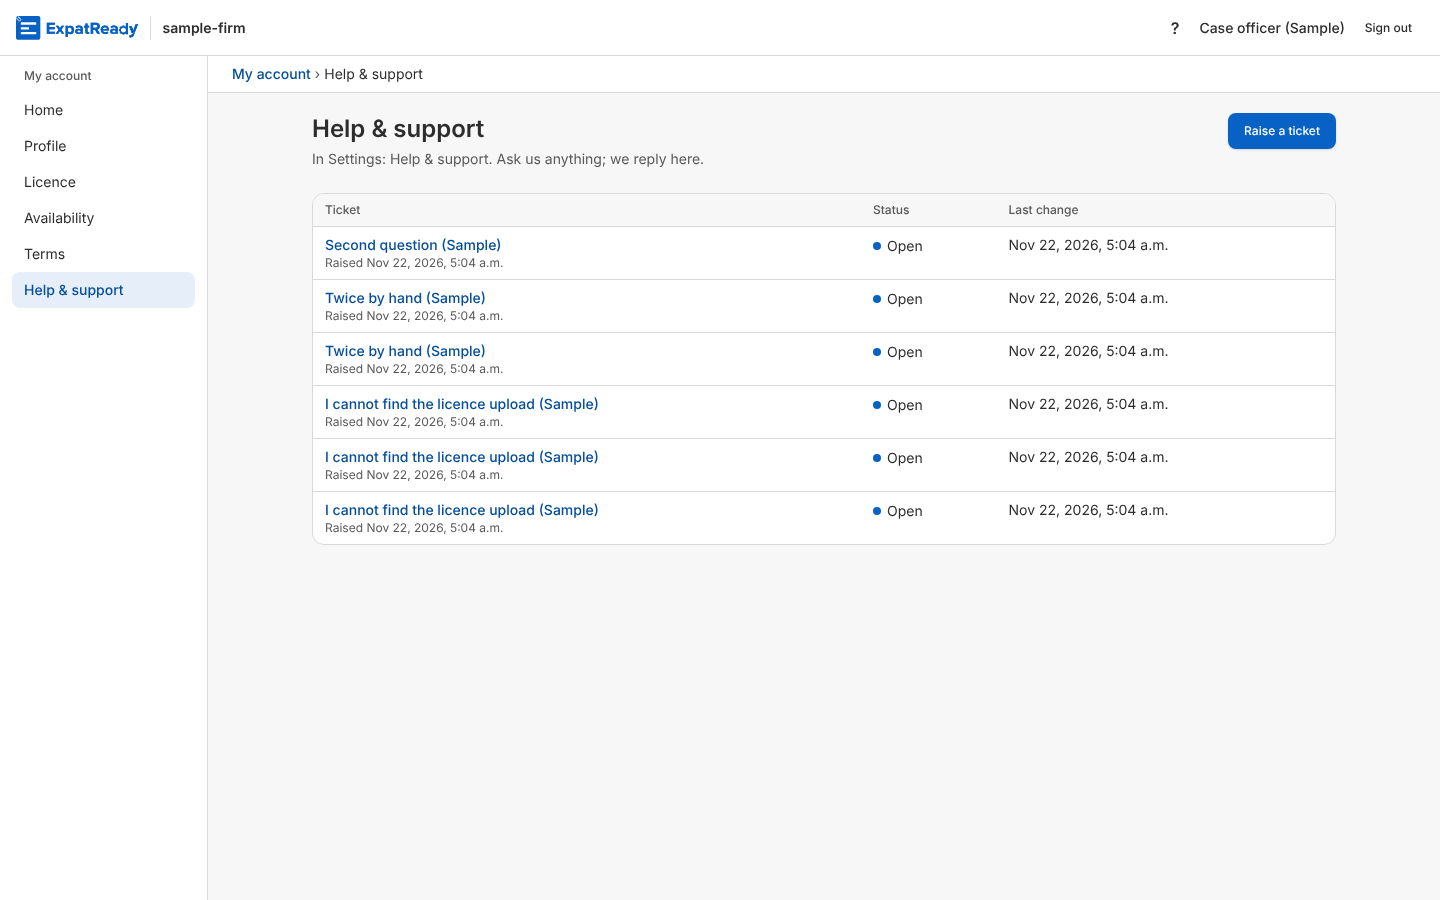
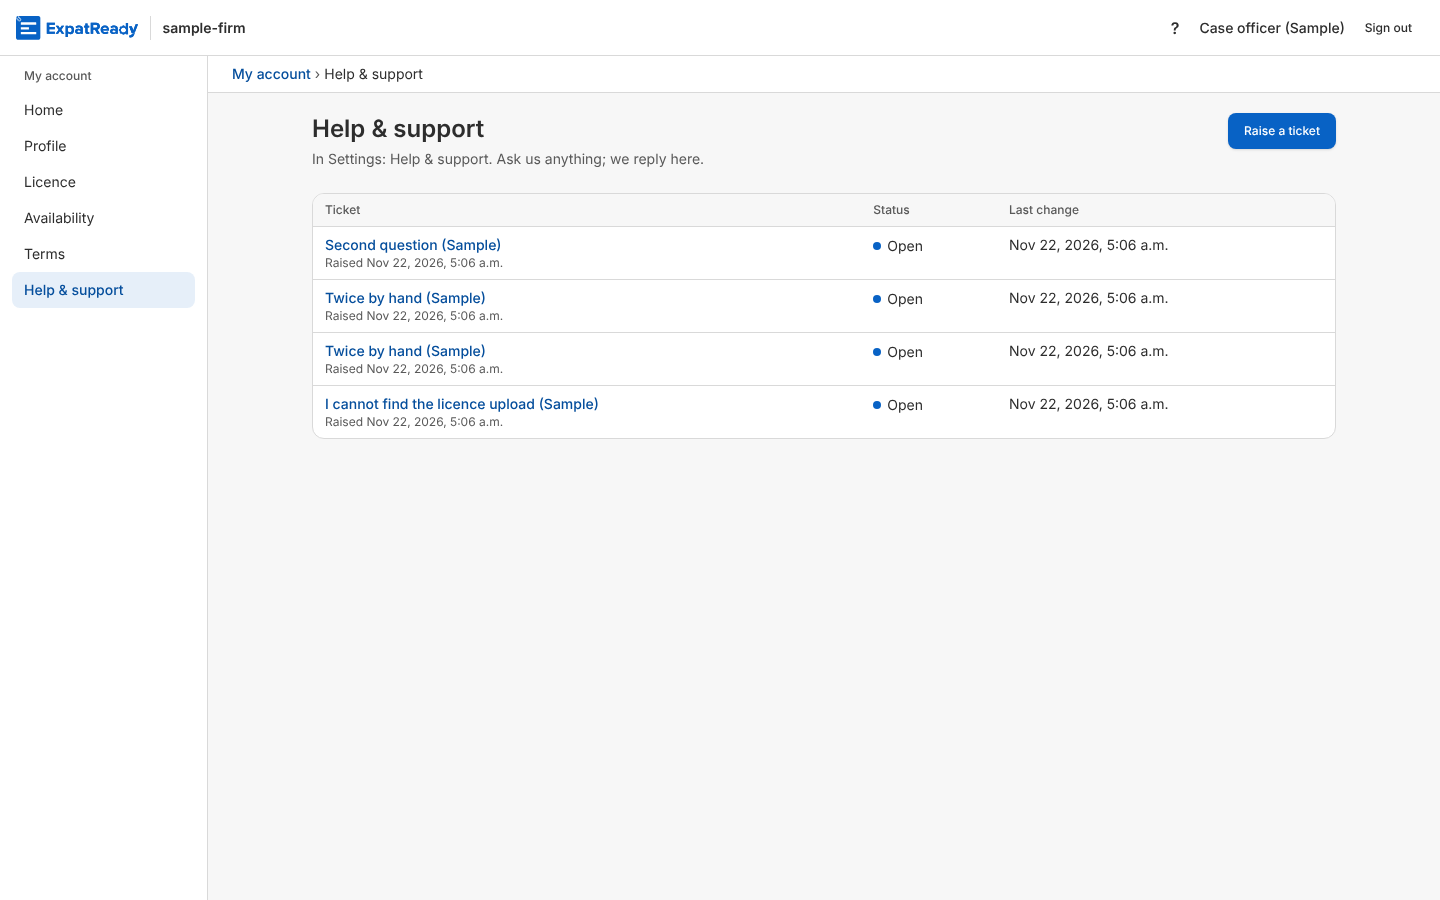
PF-18s part 2: build notes (the guard's red run, the challenge's points, deviations)
Claude-Session: https://claude.ai/code/session_01Ln6TiTqeZCkriFcHh86bgr

diff --git a/ai-workers/problem-1-pathway-setup-and-form-filling/product/screens/PF-18s/build-notes.md b/ai-workers/problem-1-pathway-setup-and-form-filling/product/screens/PF-18s/build-notes.md
@@ -90,3 +90,48 @@ A Case Officer, or anyone without `agent/settings:edit`, has no Offices line. Op
   * graph.mjs does not see `staffApi(` calls, a tool gap.
   * Outside Canada, the firm's zone is not named on add, because no firm-settings read exists on this page.
 * `check_pf18s_offices_browser.ts` now has 28 checks: 28/28 on two fresh copies.
+
+---
+
+# PF-18s part 2 — the "?" button and Help & support: build notes
+
+Part 2 of 3 (concept #2332, approved by Lead 19 with the challenge's Majors; the part order of challenge M7). R1.92. US$0, live AI off, no model call. Part 3 (Notifications) runs in another lane; none of its files are touched.
+
+## What a person can now do
+* On every staff page in PF-6's frame, anyone who holds `agent/support-ticket:create` sees a **"?"** in the header ("Get help with this page"). It opens **Ask for help**, a right panel with one text box, up to three files and the line "We'll note the page you're on: /account/licence". Only the path is noted, never the query, fragment, title or any field (m7). Send → "Ticket sent. We'll answer in Help & support." with "Open your ticket".
+* **My account → Help & support** (everyone with `agent/support-ticket:list`) lists their tickets by subject (the first line), with the status in words and a tooltip; Waiting on firm is orange. Owner and Admin see the whole firm's tickets, with a "Raised by" column. "Raise a ticket" opens the same panel.
+* **One ticket**: the subject as heading, "Raised from <page>" quietly, messages oldest first ("You", the colleague's name, or "ExpatReady support"), attachments by a short-lived link, and a reply box. A Closed ticket has no box: "This ticket is closed. Raise a new one if you still need help."
+
+## Files
+* API, additive, no migration: `api/src/platform/support/support.ts`: list items and one ticket answer `subject` (first line with words, cut to 80 characters, M5) and `raisedByName`; one ticket's staff messages answer `authorName` (M4). Names come from `platform_staff` in the ticket's firm in the same read, so the Help pages never call `GET /staff`.
+* Web, under `web/src/modules/platform/`:
+  * `settings/help-button.tsx` (`HelpButton`, `RaisePanel`), `settings/support-page.tsx` (list, ticket, reply), `settings/support-contract.ts` (no app imports).
+  * **Frame file changed: `frame.tsx`**: one slot in the header's `controls` (plus its two imports). The "?" is hidden until the terms check is done and while terms are pending (m6), and for anyone without the create key.
+  * One line each in `account-sections.ts` and `routes.tsx` (two routes).
+  * `session.ts`: `staffApi` takes an optional `form` (multipart, for the files). Additive; nothing else calls it with `form`.
+* Test: `tests/check_pf18s_help_browser.ts` (DW1-DW6, each with a pass and a fail; 25 checks). Screenshots `screenshots/pf18s-help-*.png`.
+* Module-card rows: part 2 lines in `PF-18s.md` beside the web-shell and api-platform cards.
+
+## The double-send guard (#2064, challenge M3, owed line 2)
+* Raise and reply each keep a `sending` ref set before the request and cleared when it settles (the complaints and office-panel pattern). Send also shows busy and is disabled.
+* **The check holds the first POST** (`page.route`) until the second action was dispatched: on Raise a second click (forced) and two `requestSubmit()` in one moment, which bypass the disabled button so only the ref can stop them; on reply Enter twice on the focused Send plus a second submit. Then it counts POSTs at the network and rows in the database: 1 and 1.
+* **Red run, guard line removed** (both `if (sending.current) return;` lines commented out, fresh copy `pf18s2r` on :4722, 22 Nov): `FAIL PF-18s DW2 … {"seenWhileHeld":3,"seen":3,"made":3}`, 12/14 then stopped, exit 1. Restored afterwards (`git status` clean on both files).
+* The fail line in the check itself: the same two sends straight to the API make two tickets, so the server does not deduplicate and the screen's guard is what stops the second.
+* **Known residual (m10):** a send whose answer is lost and then retried still lands twice: there is no server key. If qa sees it, it becomes a PF-18b `Idempotency-Key` row.
+
+## How the challenge's points landed (part 2's share)
+* **M3**: above. **M4**: names on records from the server, no `GET /staff`. **M5**: the subject is the list's link and the ticket's heading; the page moves to a quiet "Raised from" line, and the list has no page column.
+* **M6**: support's reply and Closed are seeded by SQL in the check, labelled scaffolding for PF-17's console (P-33). No demo seed was added: the demo's sample firm has no ticket until someone raises one (a Sample "Waiting on firm" seed can come with PF-17).
+* **m4**: plain Enter in either box is a new line, never a send; no Ctrl/⌘+Enter. After a failure focus goes back to the box; after a reply, to the new message.
+* **m6**: the "?" is hidden while terms are pending. **m7**: path only; the rule for other frames ("never note a public or token route") stays with the Q3 follow-up row.
+* **m9**: support's 422 `fields` (`body`, `files.N`) show on their fields.
+
+## Deviations and why
+* **"?" only in PF-6's frame** (Q3 as recommended): the sales, Studio and case frames get it in the follow-up row.
+* **Attachments show as "Attachment 1", "Attachment 2"**: the server stores no file names (`support/<id>/<n>`).
+* **A 404 on a raise** (no such route, an old copy) shows "Not sent… try again", the same as a 500, rather than the server's words.
+
+## Checks run
+* `check_pf18s_help_browser.ts`: 25/25 on a fresh isolated copy (`pf18s2`, :4721), exit 0. Guard removed: red (above).
+* `--changed` selected 333 suites (the shared `session.ts` and `frame.tsx`), so only the touched files' suites ran here through `run-suites.sh --only`; the PR check runs the rest. Results are in the PR body.
+* `graph.mjs --check` exit 0. `count-any`: 416, the same as the base. `module-cards.py pr` and `tree`: PASS. Web and API `tsc --noEmit`: clean.
